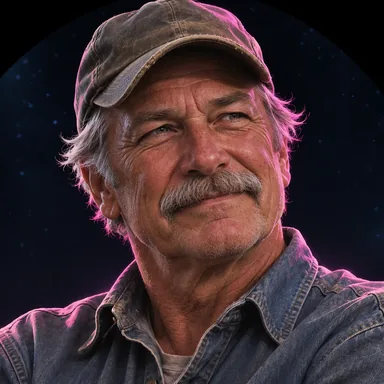
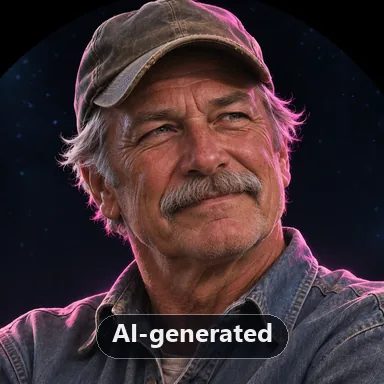
Watermark all AI-generated images
The 15 character portraits and the title-screen artwork were generated
with ChatGPT. Each now carries a visible "AI-generated" label and
embedded metadata (EXIF ImageDescription and IPTC DigitalSourceType
trainedAlgorithmicMedia in XMP).

Portraits: label at bottom centre, inside the circle the avatars are
clipped to; the avatar image also gets an "AI-generated portrait"
tooltip because the label is tiny at inbox size. Title art: label at
top centre-right, the only area every viewport crop keeps (checked at
1280x720, 390x844 and 2560x1080).

The procurement JPEGs are browser screenshots of project interfaces,
not AI output, and are left unmarked. THIRD_PARTY.md and the shipped
notices record the watermarking and require it for future AI images.

Changed region(s): [[0.25, 0.8125, 0.75, 0.9375]]

diff --git a/game/src/stations/comms/ui/common.tsx b/game/src/stations/comms/ui/common.tsx
@@ -57,6 +57,7 @@ export function Avatar({ character, size = 'md' }: { character?: Character; size
         <img
           src={`${import.meta.env.BASE_URL}portraits/${portrait}`}
           alt=""
+          title="AI-generated portrait"
           draggable={false}
           onError={() => { brokenPortraits.add(portrait); setBroken((n) => n + 1); }}
         />

diff --git a/THIRD_PARTY.md b/THIRD_PARTY.md
@@ -15,12 +15,19 @@ contains the project's Apache-2.0 terms. The fonts are loaded from Google Fonts;
 no font files are checked in. Lucide and IBM Plex Mono are used in the earlier
 procurement mockup, rather than the integrated game's runtime.
 
-The Communications character portraits (`game/public/portraits/*.webp`, 15 files)
-were generated by the team with ChatGPT (OpenAI) image generation on November 15,
-2026, then cropped and resized for the game. They depict fictional people. Their
-use is subject to [OpenAI's Terms of Use](https://openai.com/policies/terms-of-use/);
-AI-generated images may not be eligible for copyright, so the project's Apache-2.0
-license applies to them only to the extent the project holds rights in them.
+AI-generated images: the Communications character portraits
+(`game/public/portraits/*.webp`, 15 files) and the title-screen artwork
+(`game/src/shell/assets/title-earth.webp`) were generated by the team with ChatGPT
+(OpenAI) image generation in November 2026, then cropped and resized for the game.
+The portraits depict fictional people. Each image carries a visible "AI-generated"
+watermark and embedded metadata (EXIF ImageDescription and IPTC DigitalSourceType
+`trainedAlgorithmicMedia` in XMP). Any further AI-generated image must be
+watermarked the same way before it is added. Their use is subject to
+[OpenAI's Terms of Use](https://openai.com/policies/terms-of-use/); AI-generated
+images may not be eligible for copyright, so the project's Apache-2.0 license
+applies to them only to the extent the project holds rights in them. The
+procurement JPEGs under `procurement/` are browser screenshots of project
+interfaces, not AI-generated.
 
 ## Challenge and research resources
 
